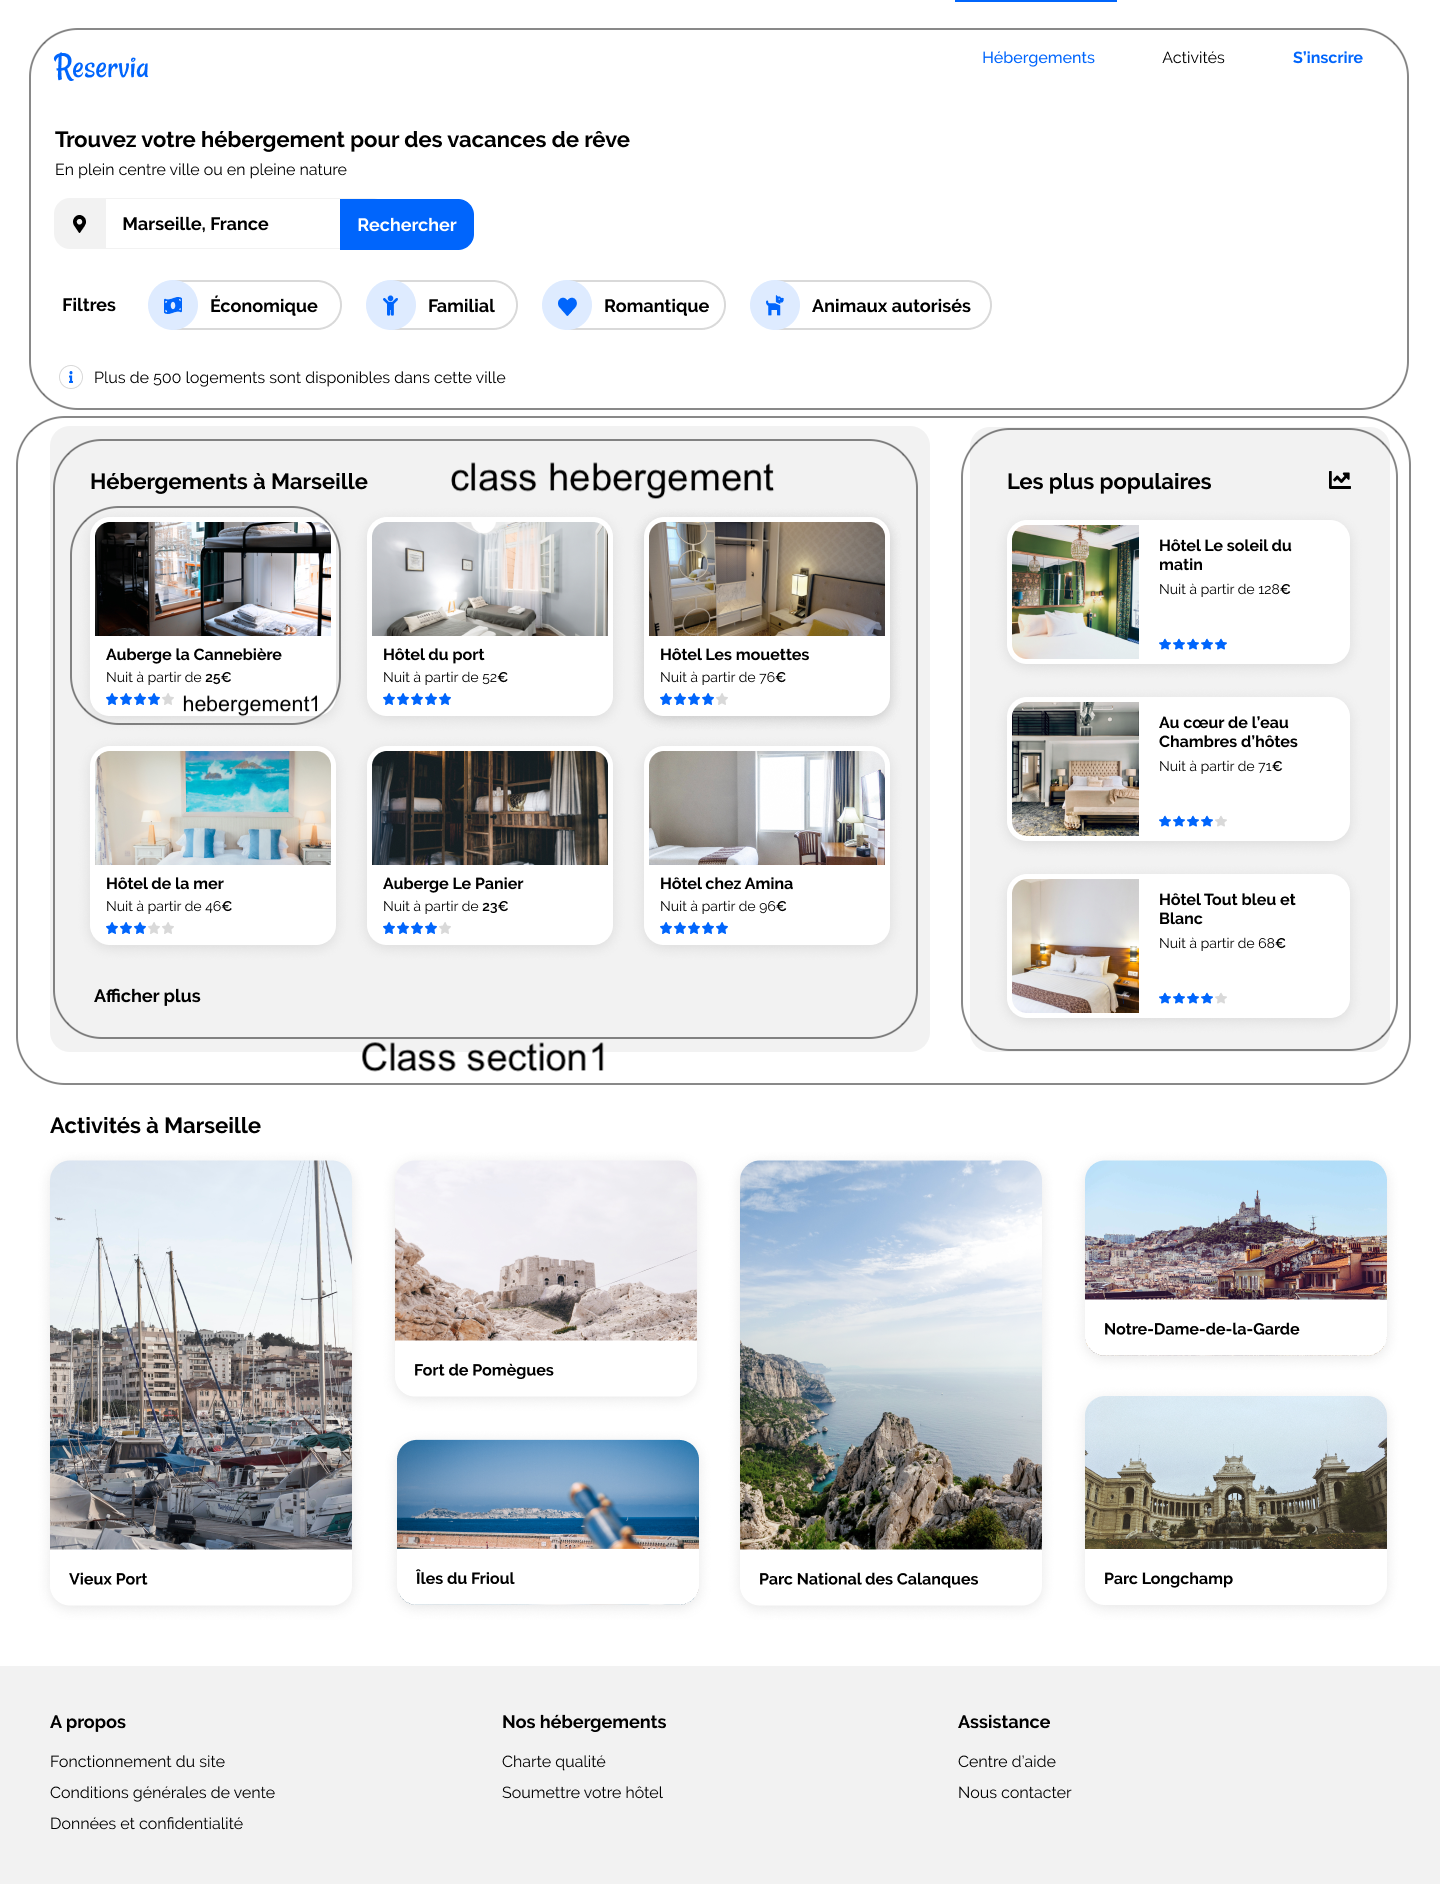
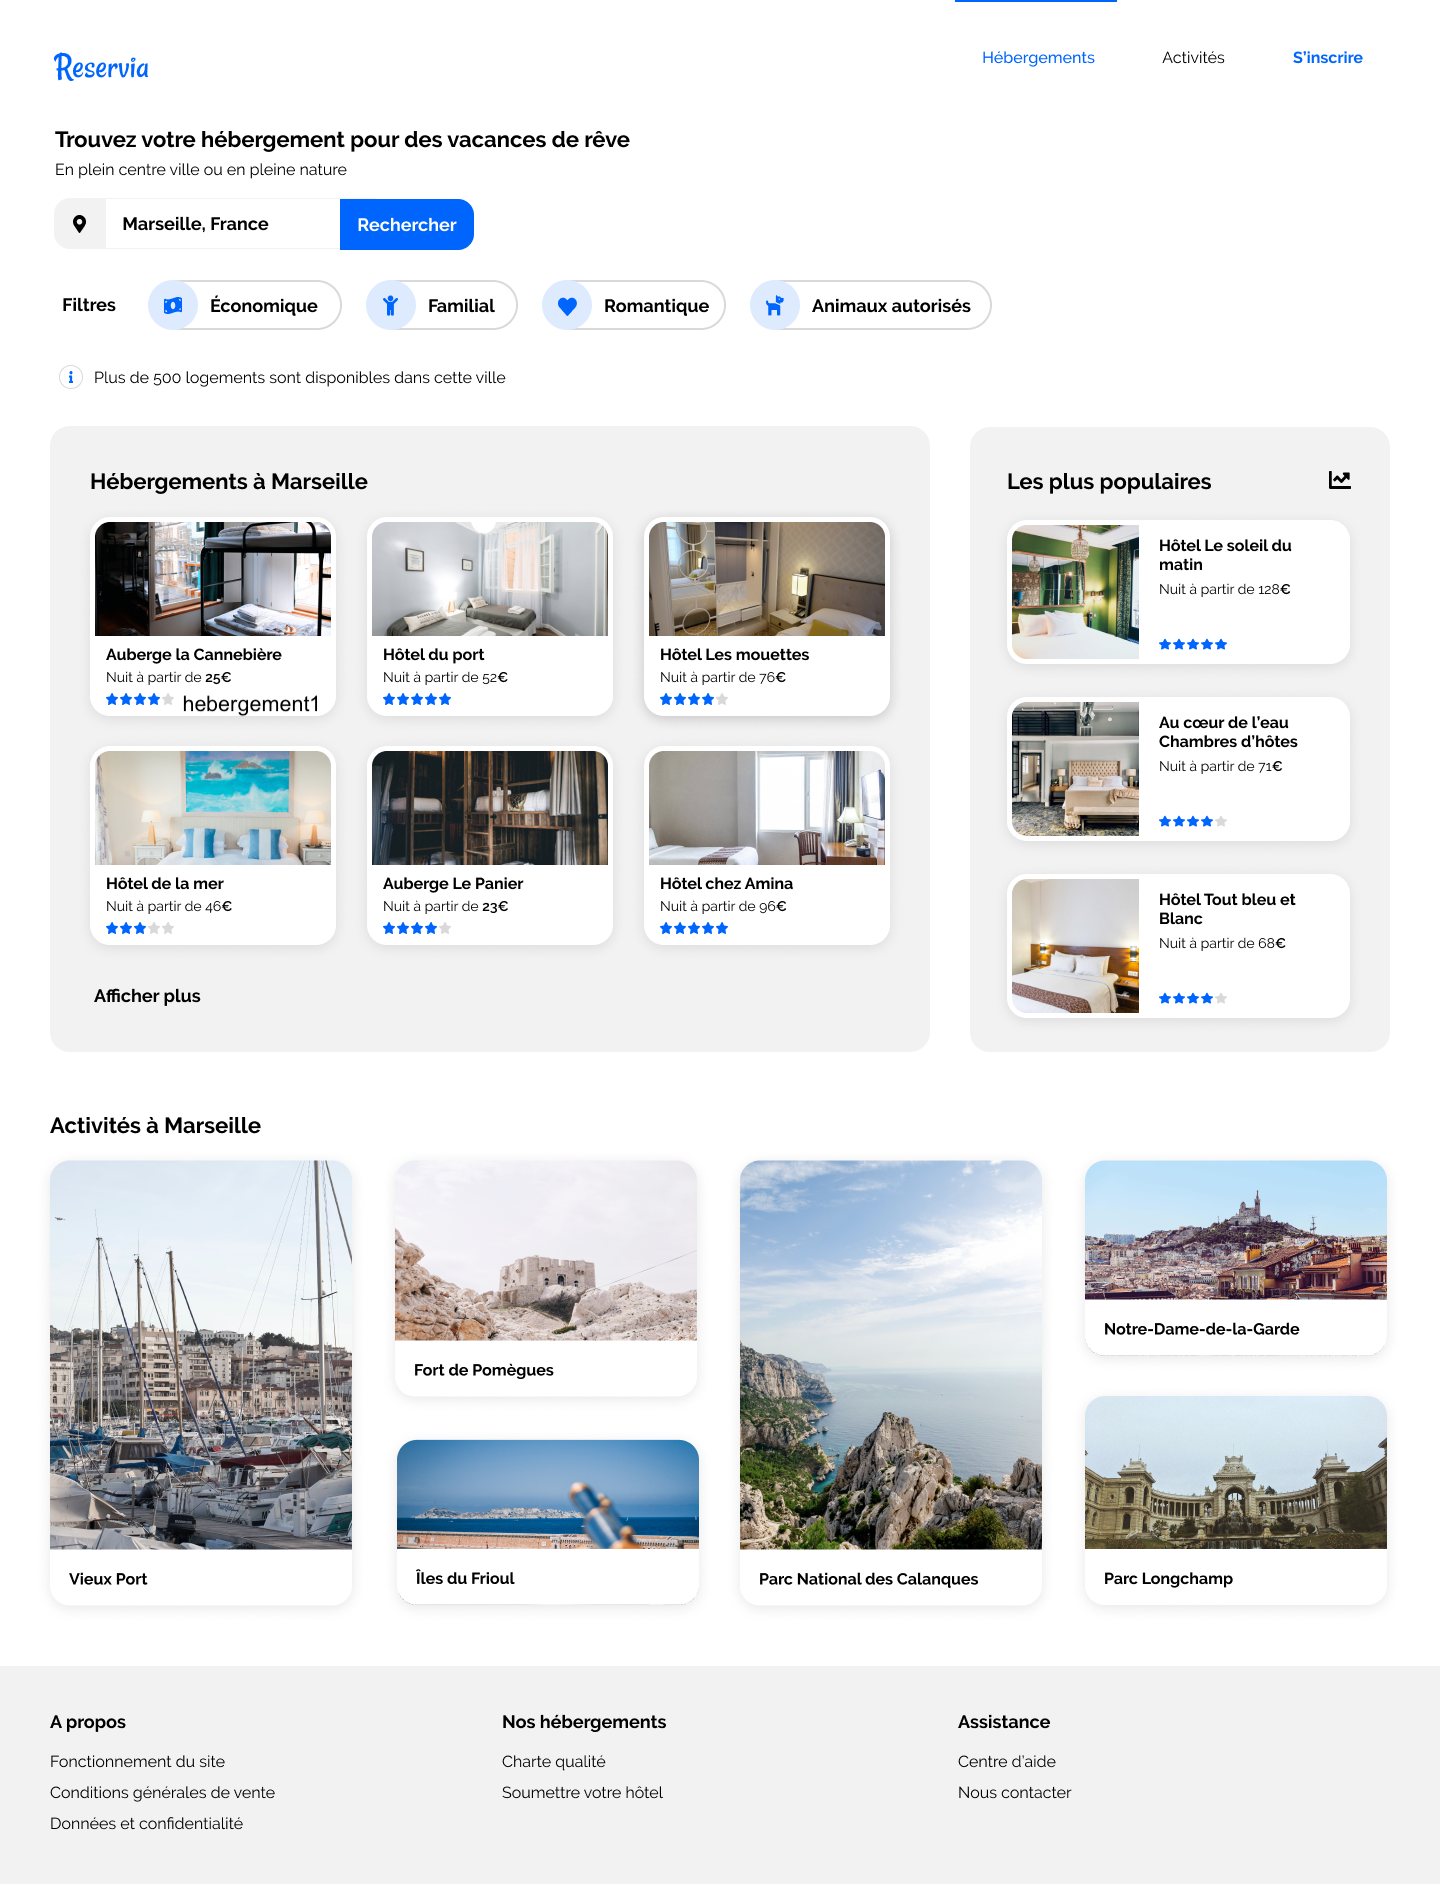
rendu fin jour 1, soucis dans les flexbox a résoudre pour container 2

Changed region(s): [[0.0625, 0.2155, 0.625, 0.2771], [0.6562, 0.2155, 0.9688, 0.2463], [0.25, 0.5541, 0.4375, 0.5849]]

diff --git a/main.css b/main.css
@@ -4,7 +4,7 @@ body {
 }
 
 span {
-
+    font-weight: bold;
 }
 
 /* Header */
@@ -84,13 +84,12 @@ header {
 .container_right {
     background-color: darkgrey;
     border-radius: 20px;
-    width: 280px;
+    width: 350px;
     margin-left: 20px;
 }
 .container_left > p {
-    margin-top: 80px;
-    margin-left: 45px
-;
+    margin-top: 40px;
+    margin-left: 45px;
 }
 .hebergement_top {
     width: 800px;
@@ -107,10 +106,14 @@ header {
 
 .carte_hebergement img{
     align-items: flex-start;
-    width: 200px;
+    width: 250px;
     height: 100px;
     border-top-right-radius: 15%;
     border-top-left-radius: 15%;
+}
+
+.carte_hebergement > .fa-solid , .fa-regular , .fa-star{
+    color: blue;
 }
  .carte_hebergement{
      background-color: white;
@@ -127,16 +130,25 @@ header {
 
 /* Section populaire */
 .carte_2 {
+    display: flex;
+    justify-content: space-between;
     background-color: white;
-    width: 250px;
-    height: 210px;
+    margin-left: 15px;
+    margin-top: 20px;
+    width: 300px;
+    height: 150px;
     border: 4px solid white;
     border-radius: 10%;
 }
+.carte_2 p , h3 {
+    display: flex;
+    flex-direction: column;
+    text-align: left;
+
+}
  .carte_2 img{
-     align-items: flex-start;
-     width: 200px;
-     height: 100px;
+     width: 150px;
+     height: 150px;
      border-top-right-radius: 15%;
      border-top-left-radius: 15%;
  }

diff --git a/index.html b/index.html
@@ -109,7 +109,7 @@
                     <i class="fa-solid fa-star"></i>
                 </div>
             </div>
-            <p> Afficher plus</p>
+            <p> <span> Afficher plus </span></p>
         </section>
         <section class="container_right">
             <h2> Les plus populaires </h2>
